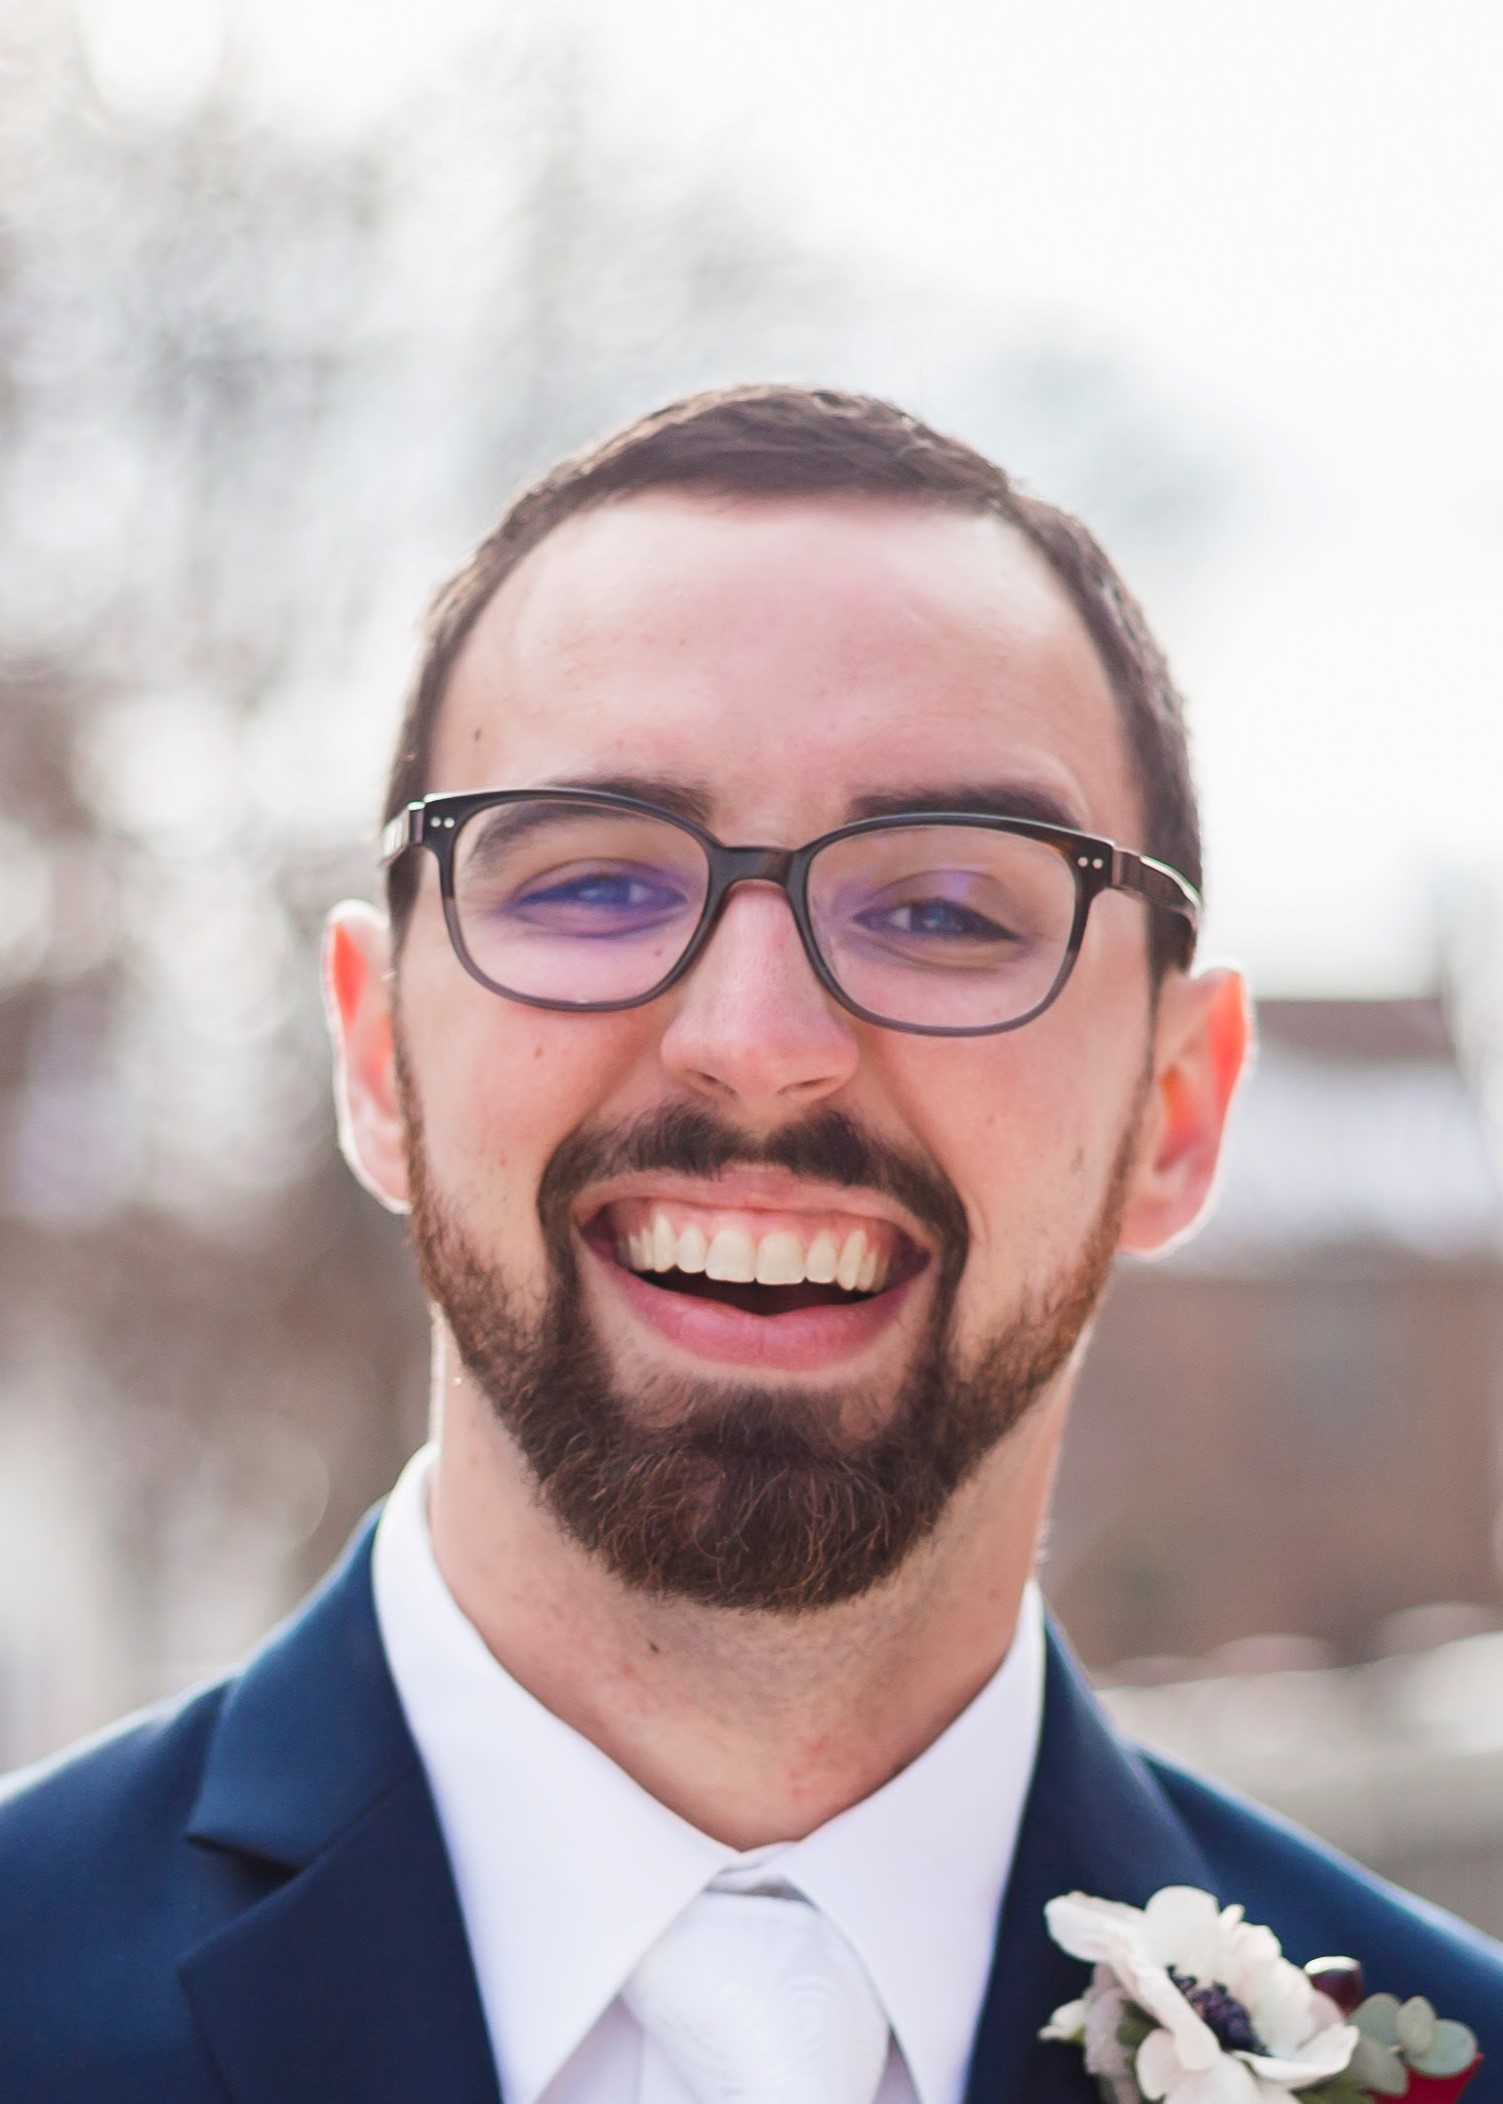
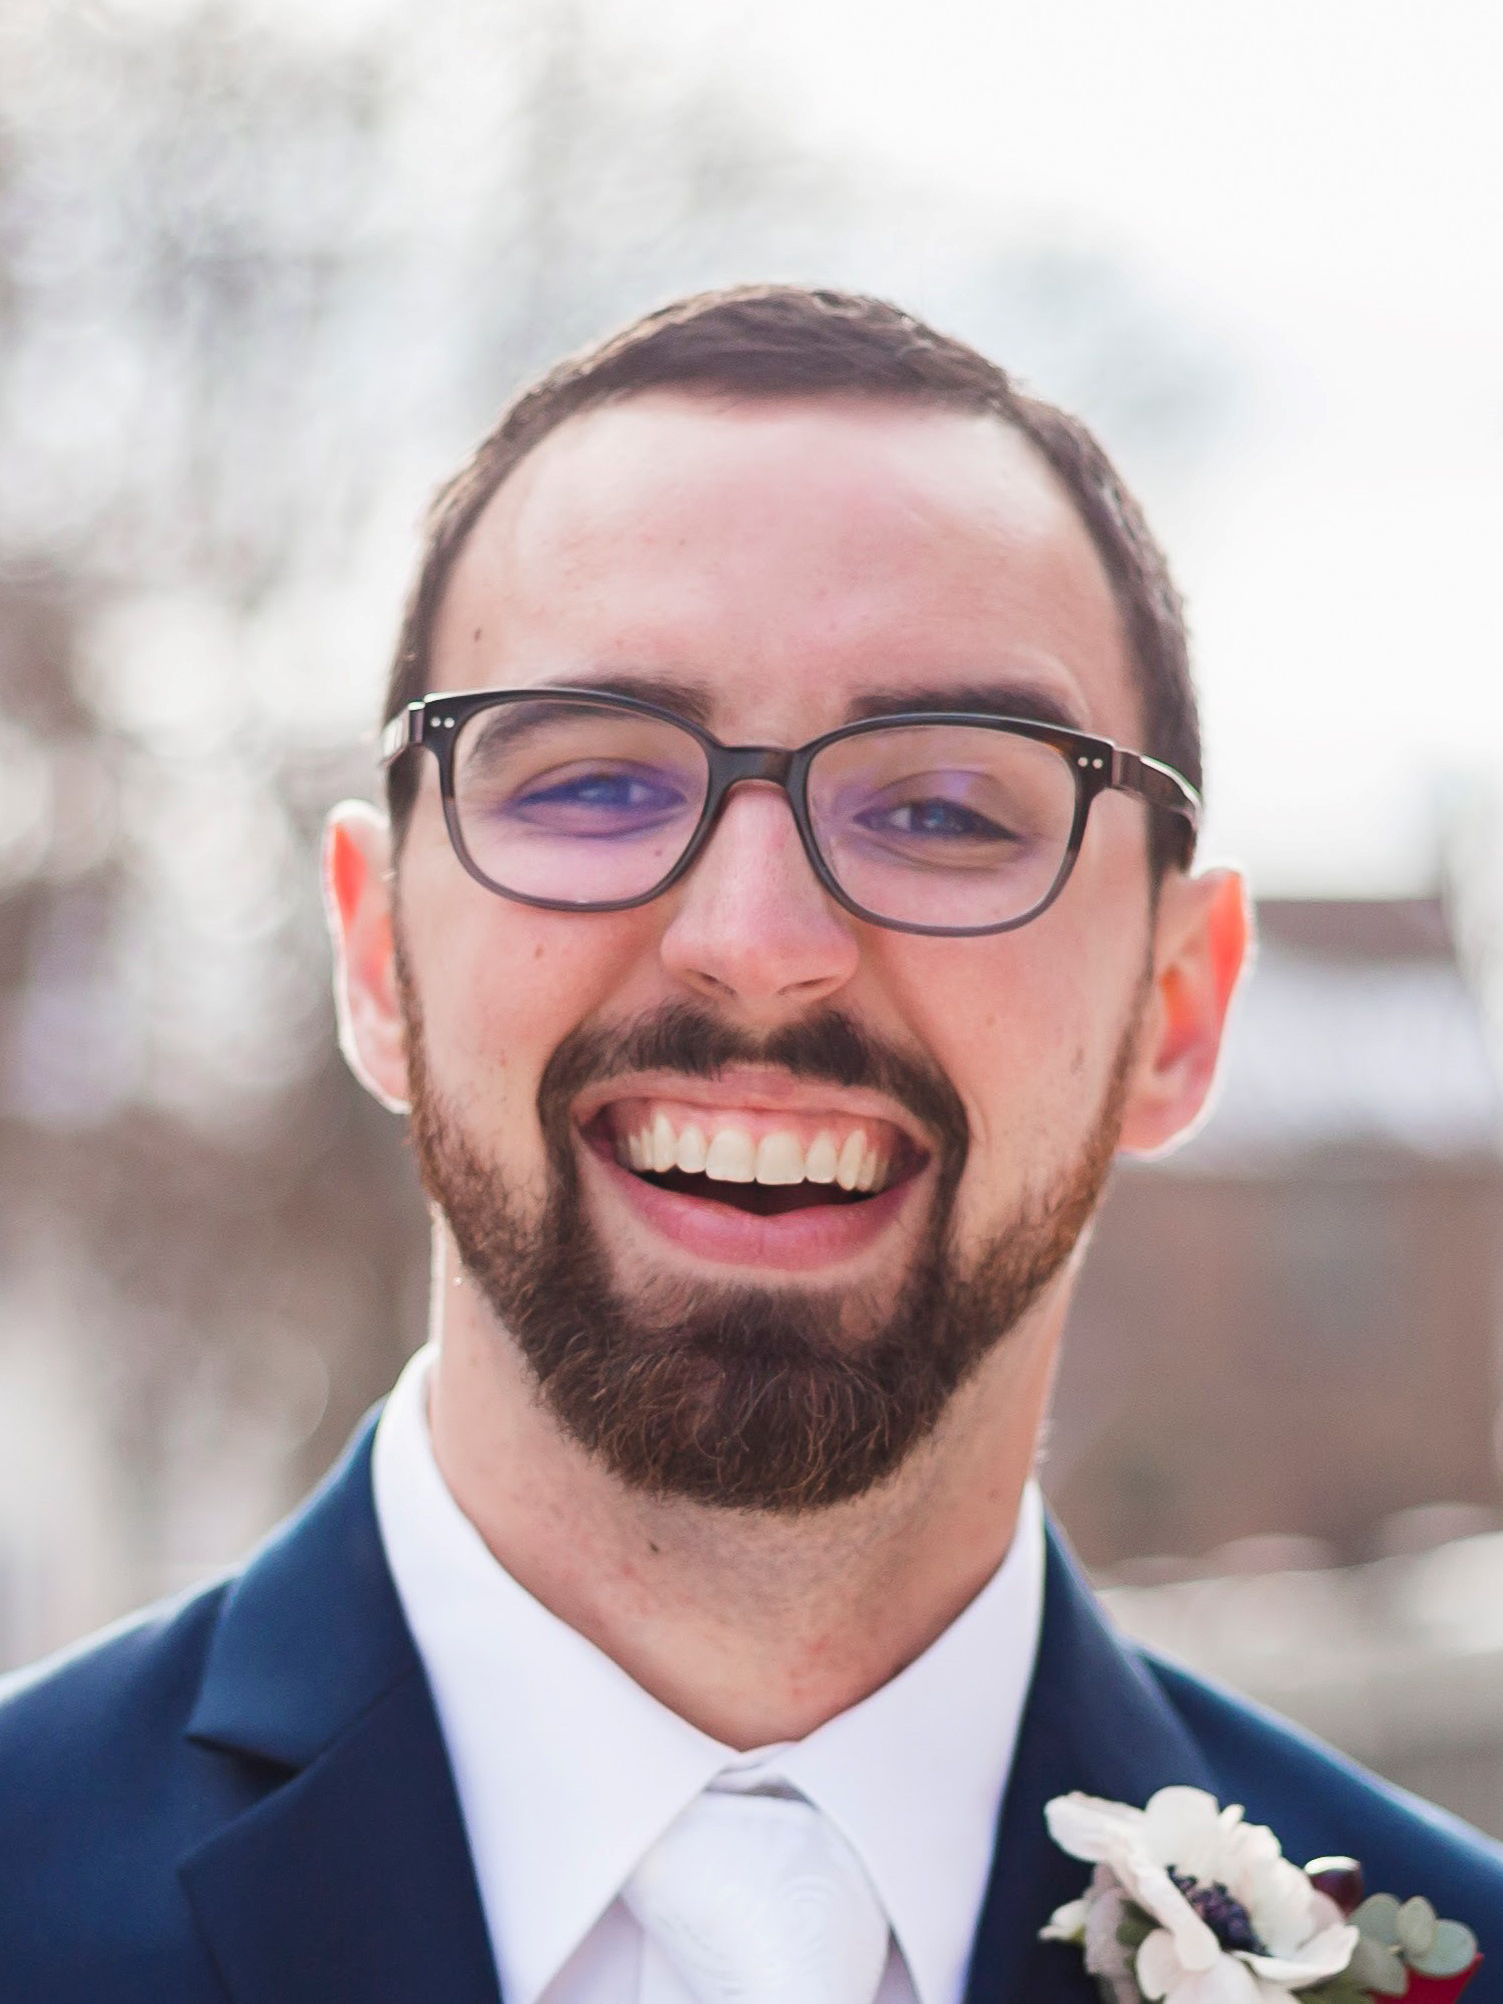
changed john's image size

diff --git a/client/src/components/contact/contact.js b/client/src/components/contact/contact.js
@@ -74,7 +74,7 @@ function Contact() {
                         <div className="flip-card-inner">
                             <h3 className='contactName card-header-title'>John Hope</h3>
                             <div className="flip-card-front">
-                                <img className='profilepics card-image' src={john} alt='john' />
+                                <img className='profilepics card-image' id='johnpic' src={john} alt='john' />
                             </div>
                             <div className="flip-card-back">
                                 <ul>

diff --git a/client/src/App.css b/client/src/App.css
@@ -84,6 +84,7 @@ body {
   background-color: var(--maincolor);
   width: 300px;
   height: 400px;
+  border-radius: 15px;
   perspective: 1000px; /* Remove this if you don't want the 3D effect */
 }
 
@@ -289,14 +290,17 @@ body {
 .profilepics {
   height: fit-content;
   width: fit-content;
+  border-radius: 10px;
+}
+
+#johnpic {
 }
 
 #contactColumn {
   flex-wrap: wrap;
-  margin-top: 100px;
-  margin-left: 100px;
 }
 
+/* Dashboard */
 #createNewPoll {
   width: 300px;
   margin: 50px;
